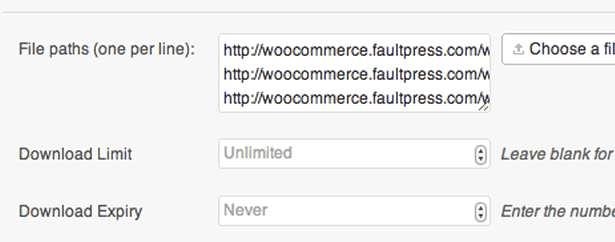
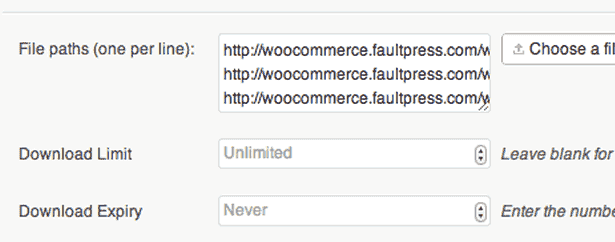
retinafied and optimised necessary images, removed doddle :p

diff --git a/assets/css/activation.css b/assets/css/activation.css
@@ -1,151 +1,1 @@
-.woocommerce-message {
-  position: relative;
-  z-index: 100;
-  border: 1px solid #b76ca9 !important;
-  -moz-border-radius: 3px;
-  -webkit-border-radius: 3px;
-  border-radius: 3px;
-  -webkit-box-shadow: inset 0 0 15px rgba(0, 0, 0, 0.04);
-  -moz-box-shadow: inset 0 0 15px rgba(0, 0, 0, 0.04);
-  box-shadow: inset 0 0 15px rgba(0, 0, 0, 0.04);
-  overflow: hidden;
-  padding: 10px 0 10px !important;
-  background: #cc99c2 url(../images/message.png) no-repeat right bottom !important;
-}
-.woocommerce-message .squeezer {
-  max-width: 960px;
-  margin: 0;
-  padding: 0 10px;
-  text-align: left;
-  overflow: hidden;
-}
-.woocommerce-message h4 {
-  margin: 5px 10px 5px 0;
-  font-size: 18px;
-  line-height: 27px;
-  font-family: "Helvetica Neue", Helvetica, Arial, "Lucida Grande", Verdana, "Bitstream Vera Sans", sans-serif;
-  font-weight: normal;
-  color: #fff;
-  text-shadow: 0px 1px 1px #b574a8;
-  -moz-border-radius: 5px;
-  -webkit-border-radius: 5px;
-  border-radius: 5px;
-  float: left;
-  vertical-align: middle;
-}
-.woocommerce-message p {
-  margin: 5px 0 !important;
-  padding: 1px 2px !important;
-  float: left !important;
-  line-height: 27px;
-  vertical-align: middle;
-}
-.woocommerce-message .twitter-share-button {
-  vertical-align: middle;
-  margin-left: 3px;
-}
-p.woocommerce-actions a.button-primary,
-.woocommerce-message a.button-primary {
-  font-size: 14px !important;
-  line-height: 16px !important;
-  height: auto !important;
-  -webkit-border-radius: 3px;
-  border-radius: 3px;
-  margin: 0 5px 0 0;
-  padding: 5px 12px;
-  vertical-align: middle;
-  color: #fff;
-  text-align: center;
-  text-decoration: none;
-  border: 1px solid #76456d;
-  -webkit-transition: none;
-  -moz-transition: none;
-  cursor: pointer;
-  outline: none;
-  font-family: "Helvetica Neue", Helvetica, Arial, "Lucida Grande", Verdana, "Bitstream Vera Sans", sans-serif;
-  text-shadow: 0px 1px 0px rgba(0, 0, 0, 0.3);
-  background-color: #a46497;
-  background-image: -webkit-gradient(linear, left top, left bottom, from(#a46497), to(#864f7b));
-  /* Saf4+, Chrome */
-
-  background-image: -webkit-linear-gradient(top, #a46497, #864f7b);
-  /* Chrome 10+, Saf5.1+, iOS 5+ */
-
-  background-image: -moz-linear-gradient(top, #a46497, #864f7b);
-  /* FF3.6+ */
-
-  background-image: -ms-linear-gradient(top, #a46497, #864f7b);
-  /* IE10 */
-
-  background-image: -o-linear-gradient(top, #a46497, #864f7b);
-  /* Opera 11.10+ */
-
-  background-image: linear-gradient(to bottom, #a46497, #864f7b);
-  -webkit-box-shadow: inset 0 1px 0 rgba(255, 255, 255, 0.2), inset 0 -1px 0 rgba(0, 0, 0, 0.1);
-  box-shadow: inset 0 1px 0 rgba(255, 255, 255, 0.2), inset 0 -1px 0 rgba(0, 0, 0, 0.1);
-}
-p.woocommerce-actions a.button-primary:hover,
-.woocommerce-message a.button-primary:hover {
-  text-shadow: 0px -1px 0px rgba(0, 0, 0, 0.3);
-  border: 1px solid #76456d;
-  background-color: #ad74a2;
-  background-image: -webkit-gradient(linear, left top, left bottom, from(#ad74a2), to(#864f7b));
-  /* Saf4+, Chrome */
-
-  background-image: -webkit-linear-gradient(top, #ad74a2, #864f7b);
-  /* Chrome 10+, Saf5.1+, iOS 5+ */
-
-  background-image: -moz-linear-gradient(top, #ad74a2, #864f7b);
-  /* FF3.6+ */
-
-  background-image: -ms-linear-gradient(top, #ad74a2, #864f7b);
-  /* IE10 */
-
-  background-image: -o-linear-gradient(top, #ad74a2, #864f7b);
-  /* Opera 11.10+ */
-
-  background-image: linear-gradient(to bottom, #ad74a2, #864f7b);
-  -webkit-box-shadow: inset 0 1px 0 rgba(255, 255, 255, 0.2), inset 0 -1px 0 rgba(0, 0, 0, 0.1);
-  box-shadow: inset 0 1px 0 rgba(255, 255, 255, 0.2), inset 0 -1px 0 rgba(0, 0, 0, 0.1);
-}
-p.woocommerce-actions a.button-primary:active,
-.woocommerce-message a.button-primary:active {
-  border: 1px solid #76456d;
-  text-shadow: 0px 1px 0px rgba(0, 0, 0, 0.3);
-  background-color: #864f7b;
-  background-image: -webkit-gradient(linear, left top, left bottom, from(#864f7b), to(#864f7b));
-  /* Saf4+, Chrome */
-
-  background-image: -webkit-linear-gradient(top, #864f7b, #a46497);
-  /* Chrome 10+, Saf5.1+, iOS 5+ */
-
-  background-image: -moz-linear-gradient(top, #864f7b, #a46497);
-  /* FF3.6+ */
-
-  background-image: -ms-linear-gradient(top, #864f7b, #a46497);
-  /* IE10 */
-
-  background-image: -o-linear-gradient(top, #864f7b, #a46497);
-  /* Opera 11.10+ */
-
-  background-image: linear-gradient(to bottom, #a46497, #a46497);
-  -webkit-box-shadow: inset 0 1px 1px rgba(0, 0, 0, 0.2);
-  box-shadow: inset 0 1px 1px rgba(0, 0, 0, 0.2);
-}
-p.woocommerce-actions a.skip,
-.woocommerce-message a.skip,
-p.woocommerce-actions a.docs,
-.woocommerce-message a.docs {
-  opacity: 0.7;
-}
-p.woocommerce-actions .twitter-share-button,
-.woocommerce-message .twitter-share-button {
-  vertical-align: middle;
-  margin-left: 3px;
-}
-p.woocommerce-actions {
-  margin-bottom: 2em;
-}
-.woocommerce-about-text {
-  margin-bottom: 1em !important;
-}
+.woocommerce-message{position:relative;z-index:100;border:1px solid #b76ca9!important;-moz-border-radius:3px;-webkit-border-radius:3px;border-radius:3px;-webkit-box-shadow:inset 0 0 15px rgba(0,0,0,0.04);-moz-box-shadow:inset 0 0 15px rgba(0,0,0,0.04);box-shadow:inset 0 0 15px rgba(0,0,0,0.04);overflow:hidden;padding:10px 0 10px!important;background:#cc99c2 url(../images/message.png) no-repeat right bottom!important}.woocommerce-message .squeezer{max-width:960px;margin:0;padding:0 10px;text-align:left;overflow:hidden}.woocommerce-message h4{margin:5px 10px 5px 0;font-size:18px;line-height:27px;font-family:"Helvetica Neue",Helvetica,Arial,"Lucida Grande",Verdana,"Bitstream Vera Sans",sans-serif;font-weight:normal;color:#fff;text-shadow:0 1px 1px #b574a8;-moz-border-radius:5px;-webkit-border-radius:5px;border-radius:5px;float:left;vertical-align:middle}.woocommerce-message p{margin:5px 0!important;padding:1px 2px!important;float:left!important;line-height:27px;vertical-align:middle}.woocommerce-message .twitter-share-button{vertical-align:middle;margin-left:3px}p.woocommerce-actions a.button-primary,.woocommerce-message a.button-primary{font-size:14px!important;line-height:16px!important;height:auto!important;-webkit-border-radius:3px;border-radius:3px;margin:0 5px 0 0;padding:5px 12px;vertical-align:middle;color:#fff;text-align:center;text-decoration:none;border:1px solid #76456d;-webkit-transition:none;-moz-transition:none;cursor:pointer;outline:0;font-family:"Helvetica Neue",Helvetica,Arial,"Lucida Grande",Verdana,"Bitstream Vera Sans",sans-serif;text-shadow:0 1px 0 rgba(0,0,0,0.3);background-color:#a46497;background-image:-webkit-gradient(linear,left top,left bottom,from(#a46497),to(#864f7b));background-image:-webkit-linear-gradient(top,#a46497,#864f7b);background-image:-moz-linear-gradient(top,#a46497,#864f7b);background-image:-ms-linear-gradient(top,#a46497,#864f7b);background-image:-o-linear-gradient(top,#a46497,#864f7b);background-image:linear-gradient(to bottom,#a46497,#864f7b);-webkit-box-shadow:inset 0 1px 0 rgba(255,255,255,0.2),inset 0 -1px 0 rgba(0,0,0,0.1);box-shadow:inset 0 1px 0 rgba(255,255,255,0.2),inset 0 -1px 0 rgba(0,0,0,0.1)}p.woocommerce-actions a.button-primary:hover,.woocommerce-message a.button-primary:hover{text-shadow:0 -1px 0 rgba(0,0,0,0.3);border:1px solid #76456d;background-color:#ad74a2;background-image:-webkit-gradient(linear,left top,left bottom,from(#ad74a2),to(#864f7b));background-image:-webkit-linear-gradient(top,#ad74a2,#864f7b);background-image:-moz-linear-gradient(top,#ad74a2,#864f7b);background-image:-ms-linear-gradient(top,#ad74a2,#864f7b);background-image:-o-linear-gradient(top,#ad74a2,#864f7b);background-image:linear-gradient(to bottom,#ad74a2,#864f7b);-webkit-box-shadow:inset 0 1px 0 rgba(255,255,255,0.2),inset 0 -1px 0 rgba(0,0,0,0.1);box-shadow:inset 0 1px 0 rgba(255,255,255,0.2),inset 0 -1px 0 rgba(0,0,0,0.1)}p.woocommerce-actions a.button-primary:active,.woocommerce-message a.button-primary:active{border:1px solid #76456d;text-shadow:0 1px 0 rgba(0,0,0,0.3);background-color:#864f7b;background-image:-webkit-gradient(linear,left top,left bottom,from(#864f7b),to(#864f7b));background-image:-webkit-linear-gradient(top,#864f7b,#a46497);background-image:-moz-linear-gradient(top,#864f7b,#a46497);background-image:-ms-linear-gradient(top,#864f7b,#a46497);background-image:-o-linear-gradient(top,#864f7b,#a46497);background-image:linear-gradient(to bottom,#a46497,#a46497);-webkit-box-shadow:inset 0 1px 1px rgba(0,0,0,0.2);box-shadow:inset 0 1px 1px rgba(0,0,0,0.2)}p.woocommerce-actions a.skip,.woocommerce-message a.skip,p.woocommerce-actions a.docs,.woocommerce-message a.docs{opacity:.7}p.woocommerce-actions .twitter-share-button,.woocommerce-message .twitter-share-button{vertical-align:middle;margin-left:3px}p.woocommerce-actions{margin-bottom:2em}.woocommerce-about-text{margin-bottom:1em!important}

diff --git a/admin/includes/welcome.php b/admin/includes/welcome.php
@@ -191,7 +191,7 @@ class WC_Welcome_Page {
 					<div>
 						<img src="<?php echo $woocommerce->plugin_url() . '/assets/images/welcome/product.png'; ?>" alt="Product panel screenshot" style="width: 99%; margin: 0 0 1em;" />
 						<h4><?php _e( 'New Product Panel', 'woocommerce' ); ?></h4>
-						<p><?php _e( 'We have revised the product data panel making it cleaner, more streamlined, and more logical. Adding products is a doddle!', 'woocommerce' ); ?></p>
+						<p><?php _e( 'We have revised the product data panel making it cleaner, more streamlined, and more logical. Adding products is a breeze!', 'woocommerce' ); ?></p>
 					</div>
 
 					<div>
